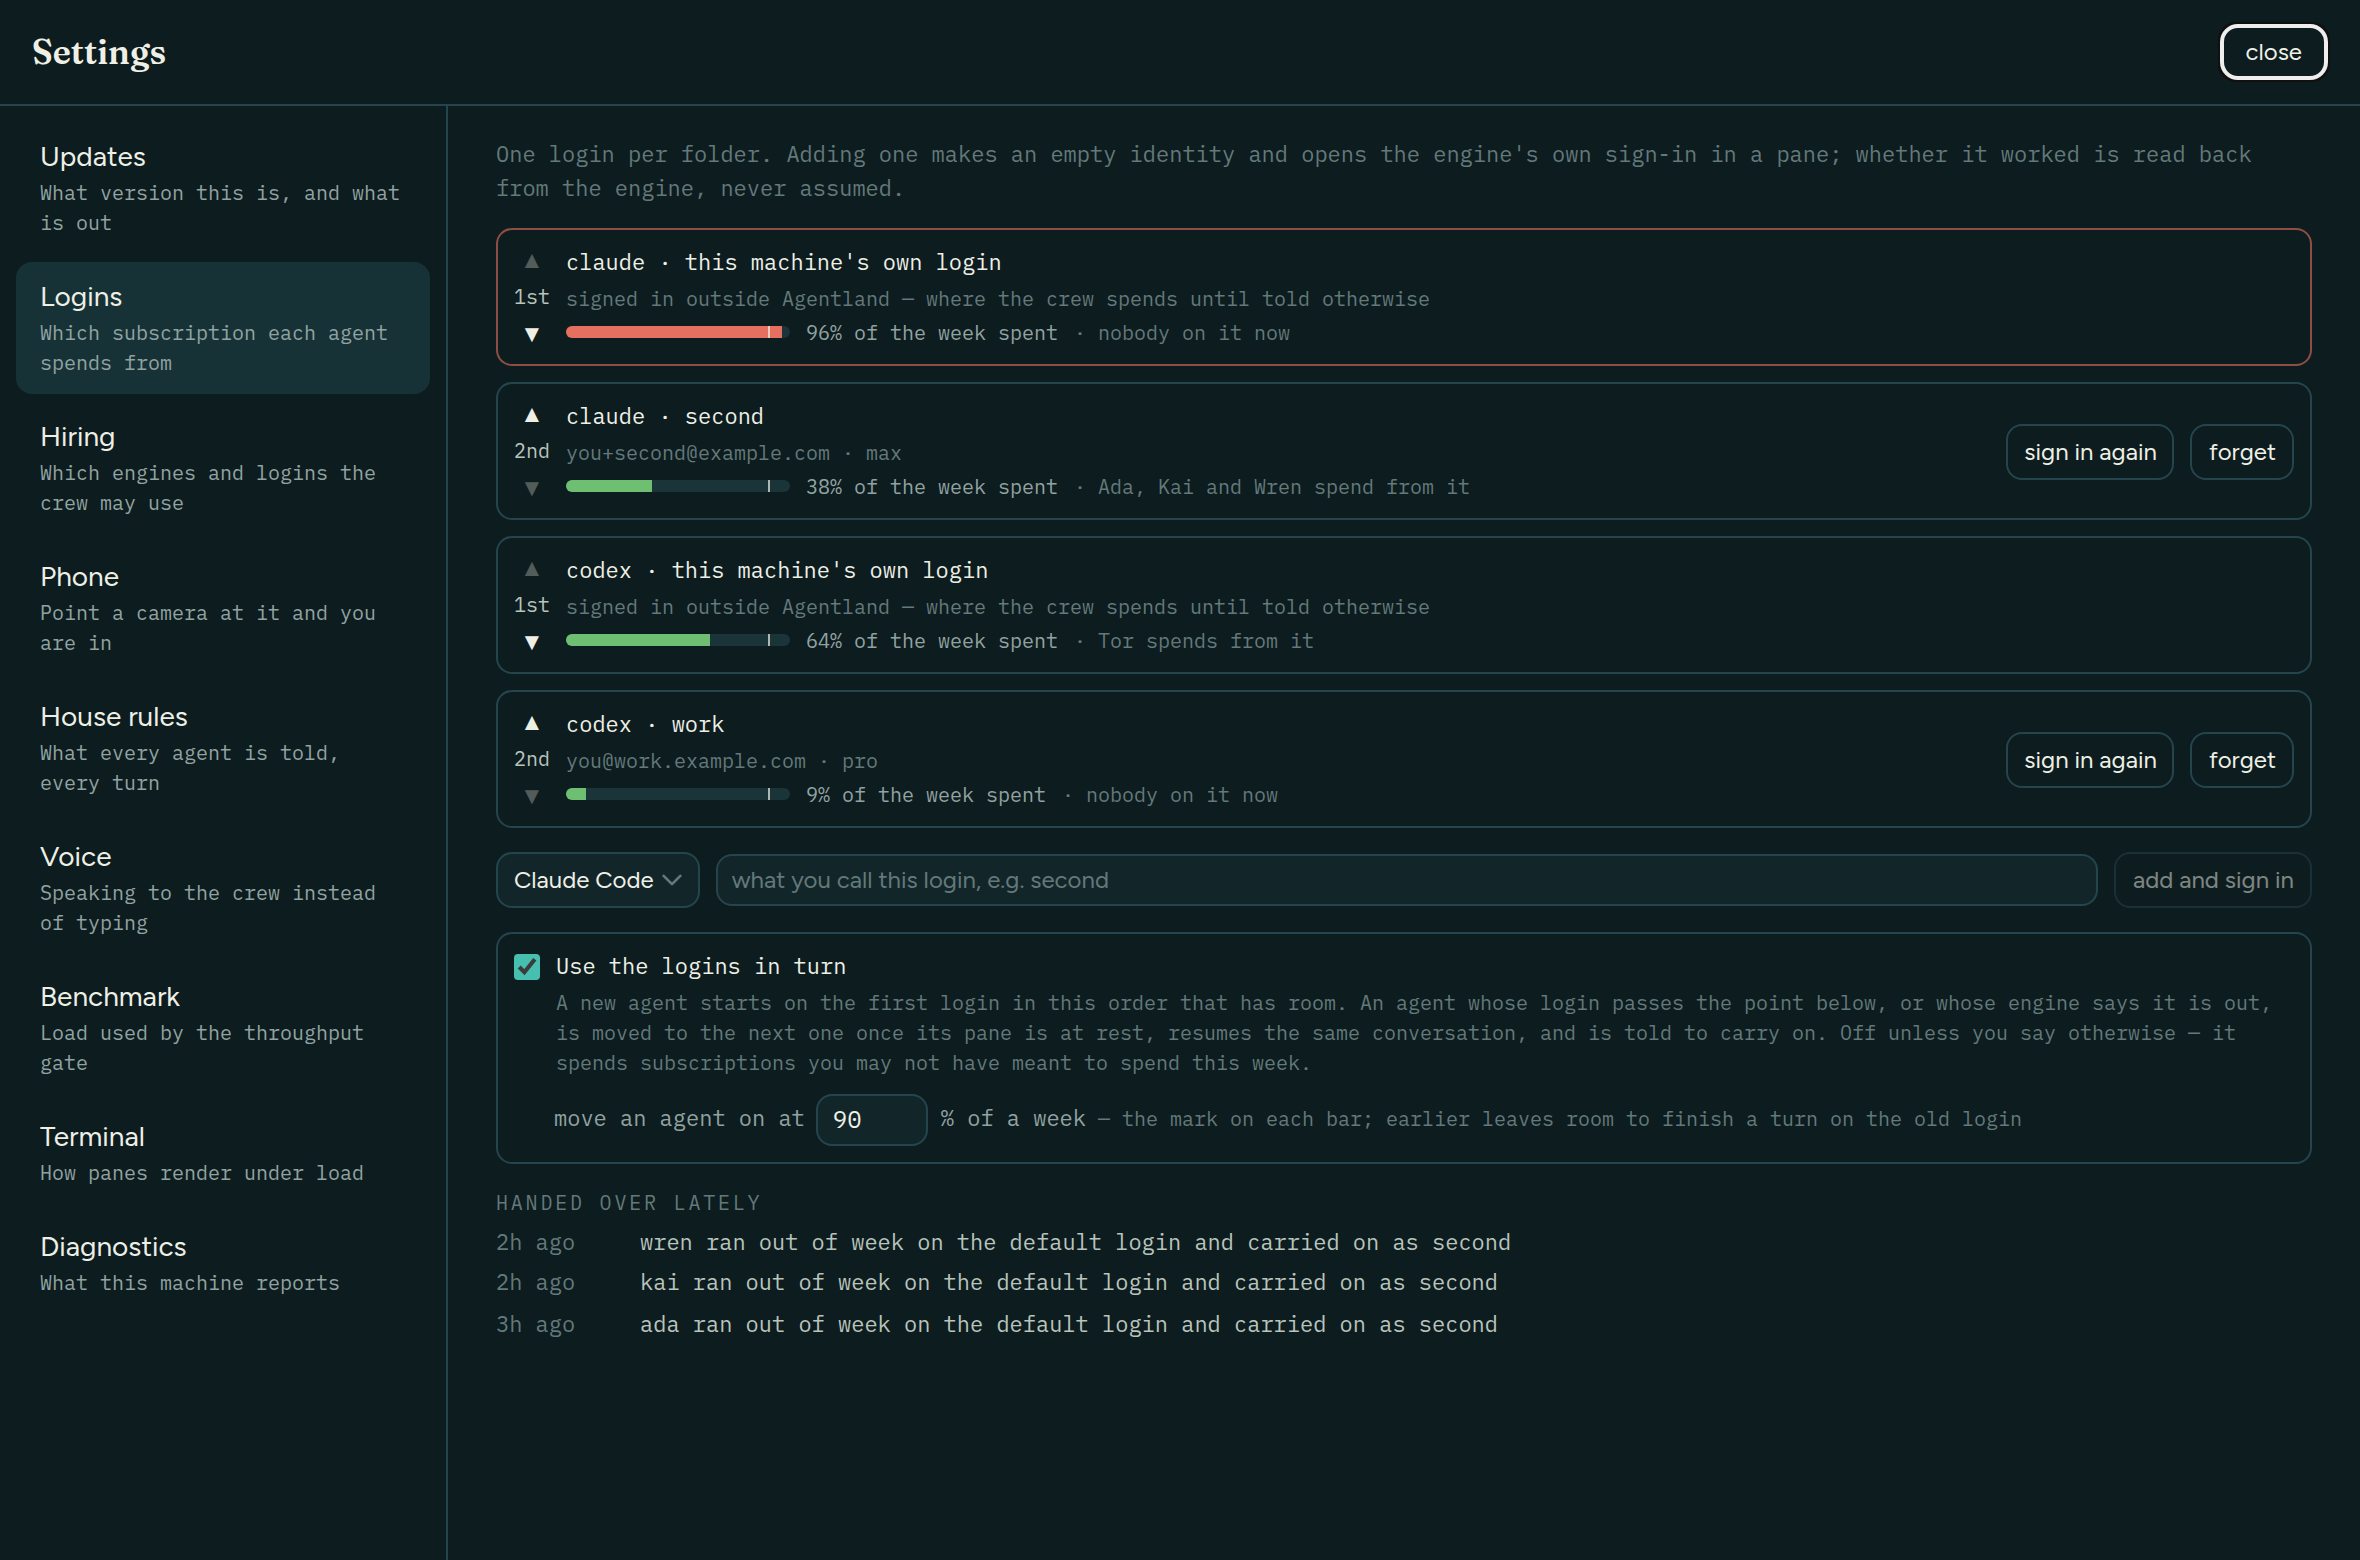
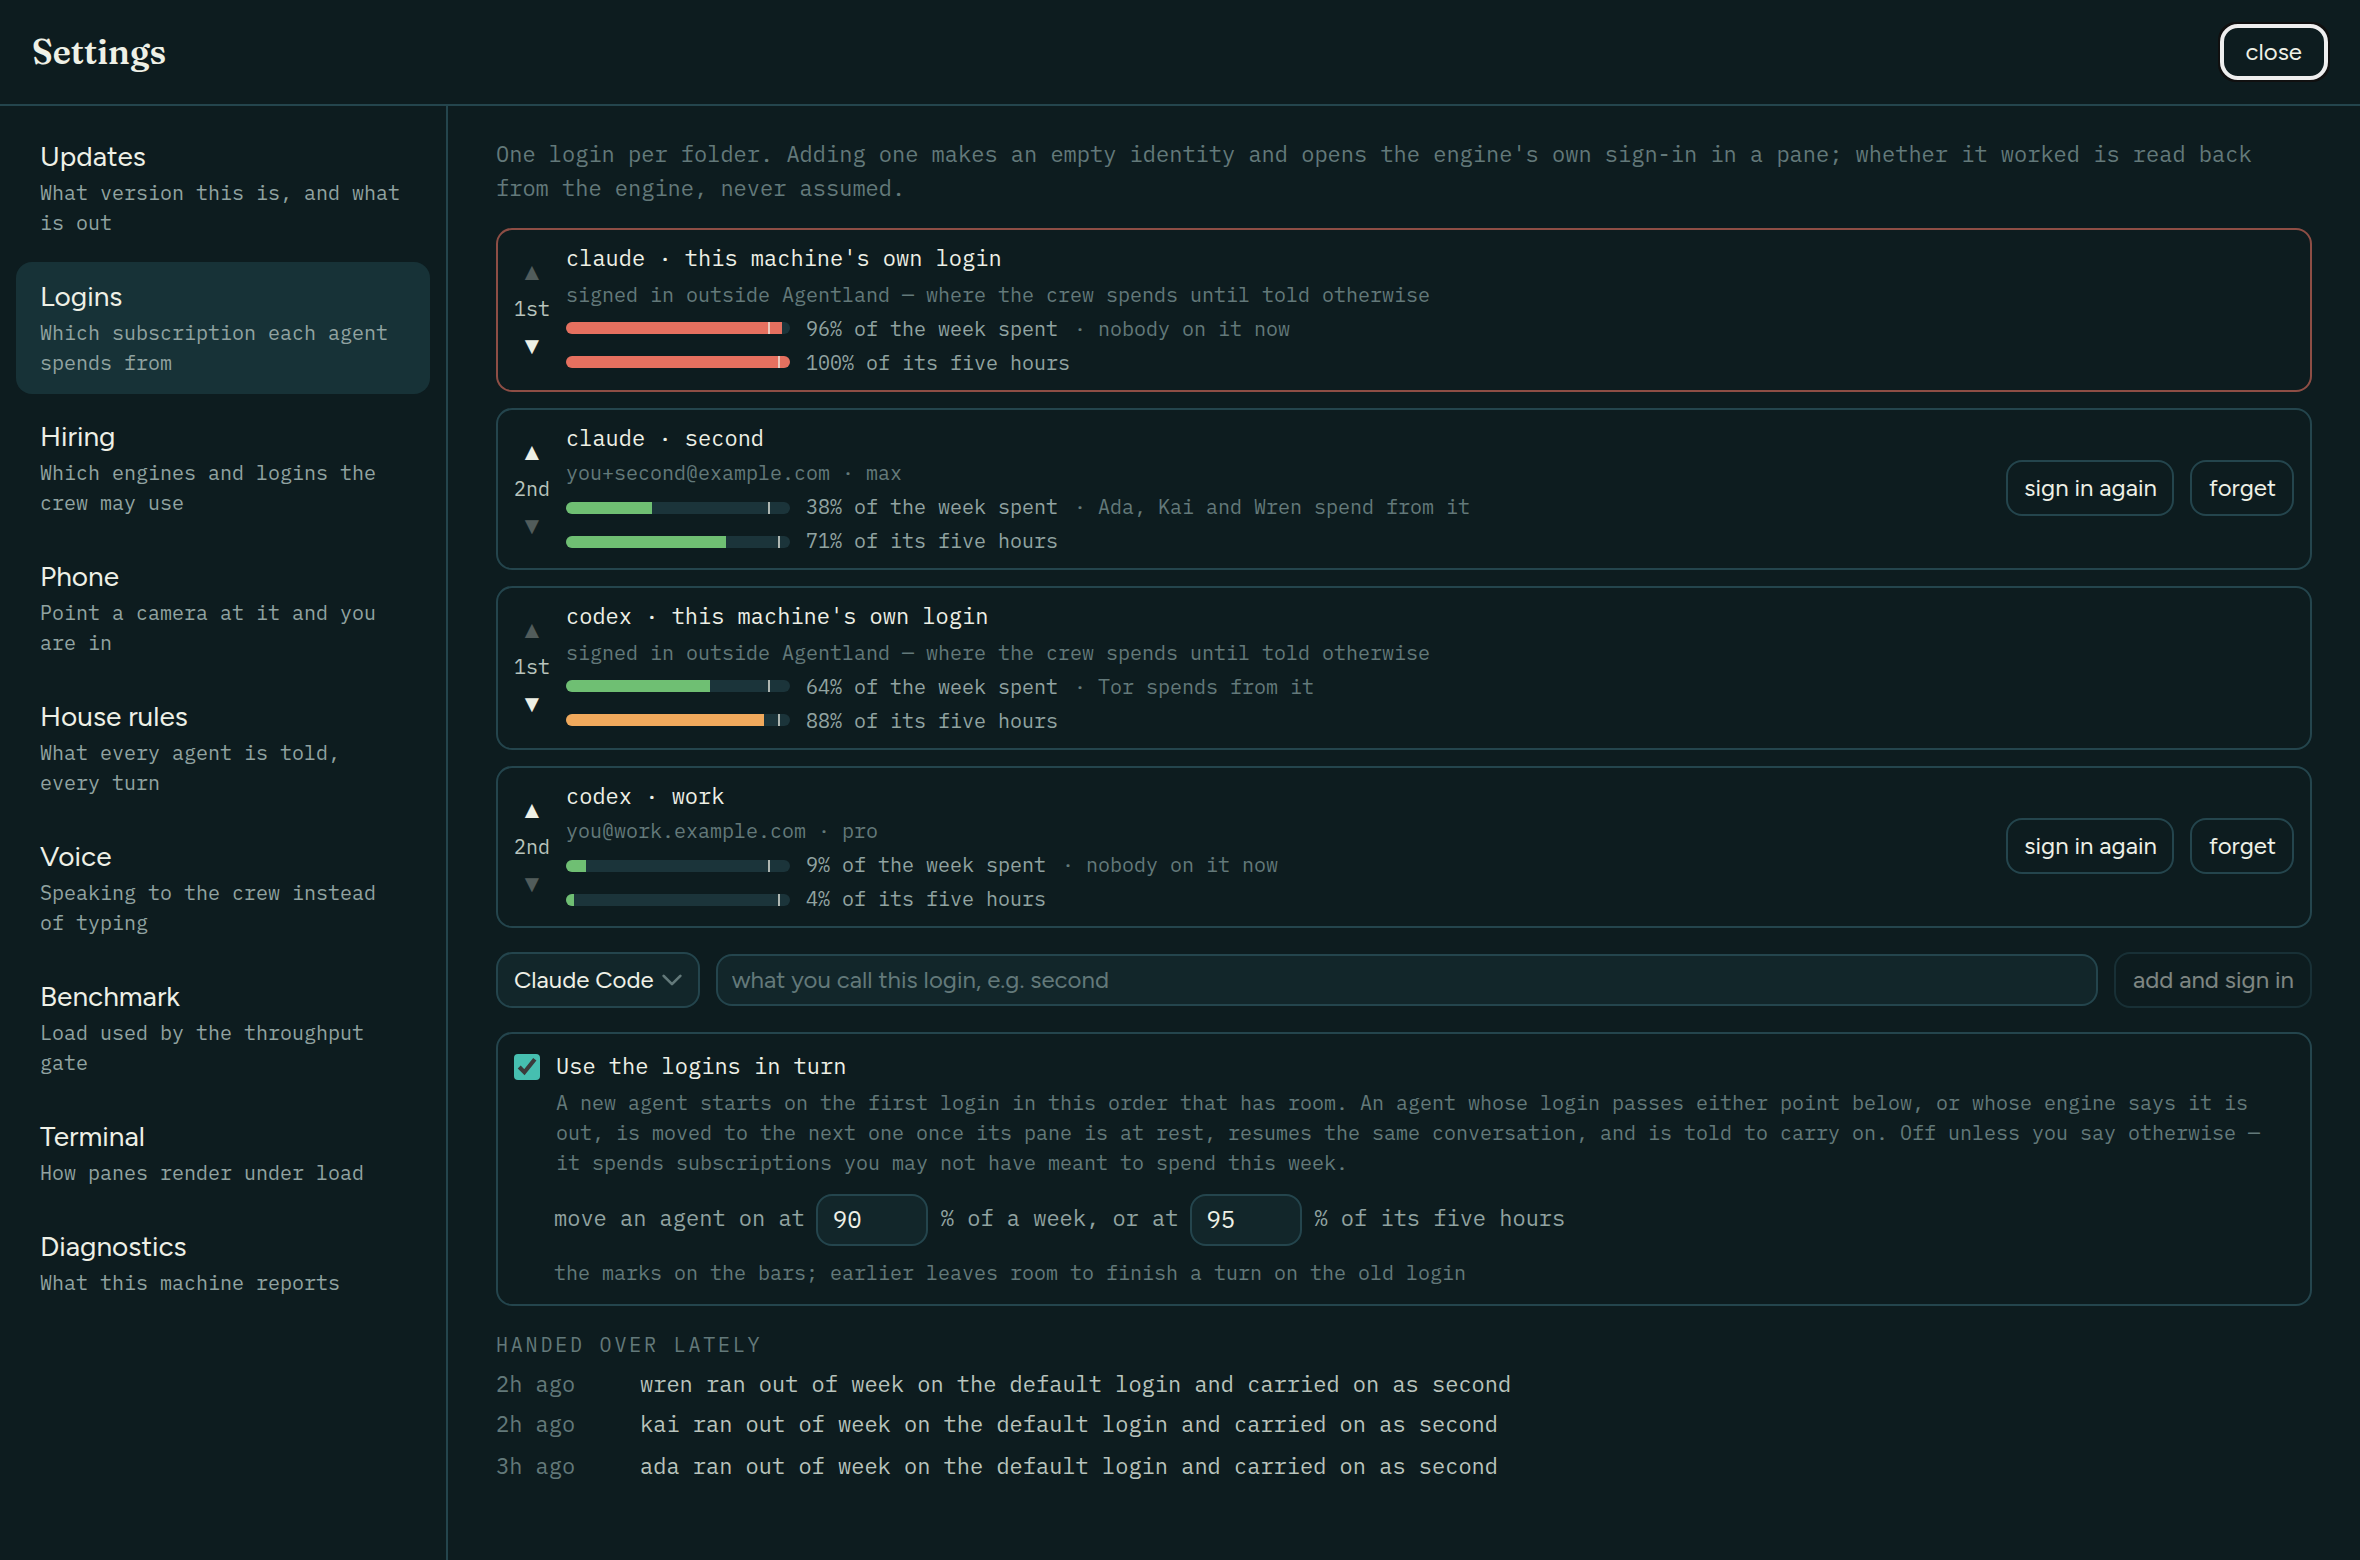
docs(readme): show and describe the five-hour limit on logins
The logins picture shows each login's five hours beside its week, and both
points agents are moved on at; the logins section says why a five-hour
reading older than five hours is ignored.

diff --git a/README.md b/README.md
@@ -2239,9 +2239,18 @@ and what changes is which folder the next pane starts in.
 The logins are put in an order, the machine's own login among them — first,
 last or anywhere between. With the switch on, a new agent starts on the first
 login in that order with room, and an agent whose login passes a point the
-person picks (92% of a week unless told otherwise), or whose engine says the
-login is out, is moved to the next one. The same point decides both ways, so a
-login just past it is never picked only to be left again on the next tick. The
+person picks, or whose engine says the login is out, is moved to the next one.
+There are two points, because a subscription has two walls: the week (92%
+unless told otherwise) and the five hours that run out first on a busy day
+(95%), so a login with most of its week left is still passed over while its
+five hours are nearly gone. The same points decide both ways, so a login just
+past one is never picked only to be left again on the next tick.
+
+A login is read only while a pane runs on it, so one everybody has left keeps
+its last number. A five-hour reading older than five hours is ignored — the
+window it was read from has come round — or a login read at 99% would never
+have room again. The week's reading is kept: a week does not come round on its
+own inside an afternoon. The
 machine's own login can be moved back to when its week comes round; it used to
 be the one place an agent was never carried back to.
 
